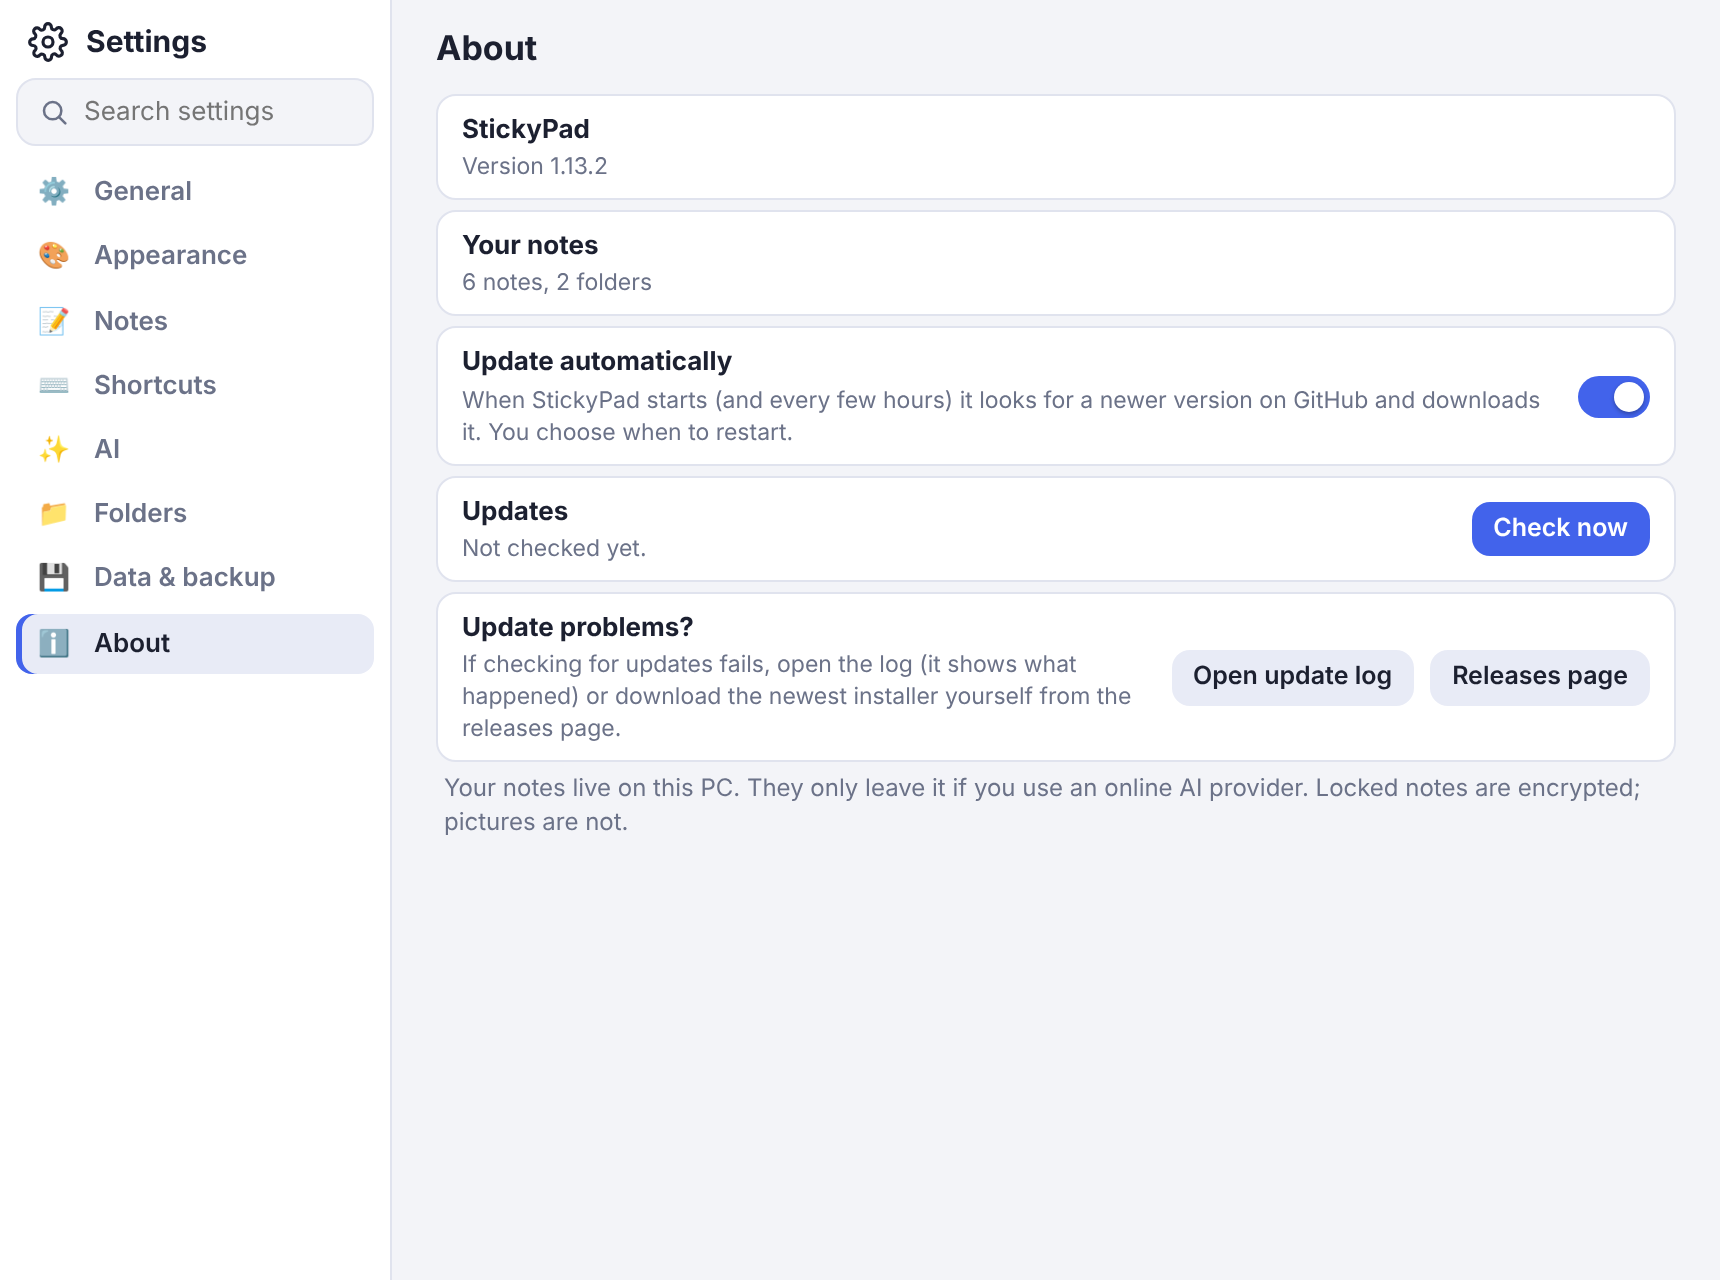
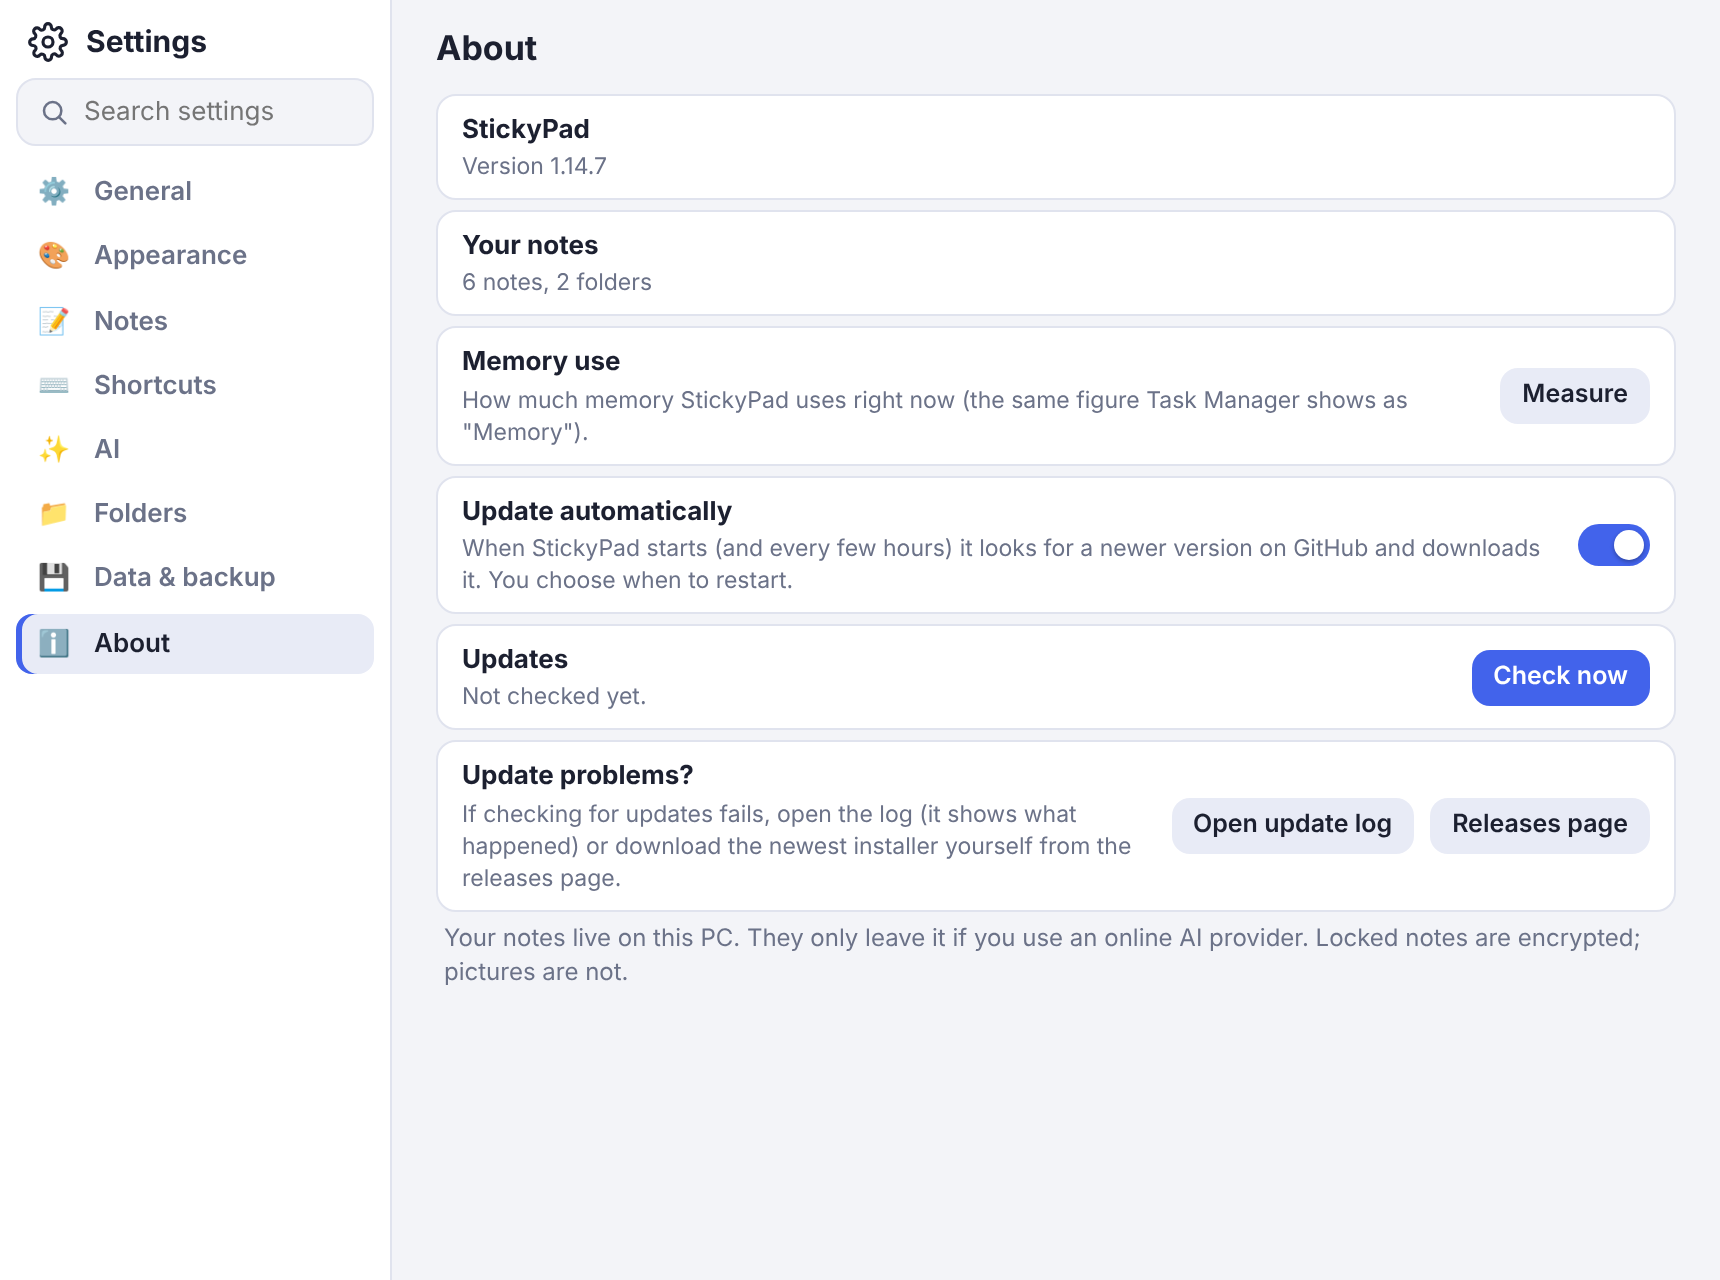
Docs: update README and screenshots for the docked panel and 1.14 features; tidy date bar text, AI button grid, shortcuts list
Claude-Session: https://claude.ai/code/session_01QuaePSCNKfBKv36b3rMdtf

diff --git a/settings.html b/settings.html
@@ -61,7 +61,8 @@
     <div class="row"><div class="lbl"><b>Inside a note</b></div></div>
     <div id="keysNote" class="keylist"></div>
     <p id="keysMsg" class="hint" hidden></p>
-    <div class="row"><div class="lbl"><b>Always the same</b><span>These are needed for editing and cannot be changed.</span></div><div class="ctl keys"><span class="kv"><kbd>Ctrl</kbd><kbd>Z</kbd> Undo</span><span class="kv"><kbd>Ctrl</kbd><kbd>Y</kbd> Redo</span><span class="kv"><kbd>Ctrl</kbd><kbd>Click</kbd> Open a link</span><span class="kv"><kbd>Esc</kbd> Close a panel</span><span class="kv"><kbd>Enter</kbd> Next checklist item</span></div></div>
+    <div class="row"><div class="lbl"><b>Always the same</b><span>These are needed for editing and cannot be changed.</span></div></div>
+    <div class="keysline"><span class="kv"><kbd>Ctrl</kbd><kbd>Z</kbd> Undo</span><span class="kv"><kbd>Ctrl</kbd><kbd>Y</kbd> Redo</span><span class="kv"><kbd>Ctrl</kbd><kbd>Click</kbd> Open a link</span><span class="kv"><kbd>Esc</kbd> Close a panel</span><span class="kv"><kbd>Enter</kbd> Next checklist item</span></div>
     <div class="row"><div class="lbl"><b>Back to the original shortcuts</b></div><div class="ctl"><button id="keysReset" class="btn">Reset all</button></div></div>
   </section>
 

diff --git a/note.js b/note.js
@@ -458,7 +458,7 @@ function dateCheck() {
   dateFound = found;
   const when = new Date(found.at), now = new Date(), sameDay = when.toDateString() === now.toDateString();
   const label = (sameDay ? 'today' : when.toLocaleDateString(undefined, { weekday: 'short', day: 'numeric', month: 'short' })) + ' ' + when.toLocaleTimeString(undefined, { hour: '2-digit', minute: '2-digit' });
-  $('#dateTxt').textContent = `“${found.text.length > 28 ? found.text.slice(0, 27) + '…' : found.text}” → ${label}`;
+  $('#dateTxt').textContent = `“${found.text.length > 18 ? found.text.slice(0, 17) + '…' : found.text}” → ${label}`;
   $('#dateTxt').title = 'Set a reminder for ' + label;
   bar.hidden = false;
 }

diff --git a/settings.css b/settings.css
@@ -41,6 +41,7 @@ h2{margin:0 0 14px;font-size:20px}
 .krow .kbtn.bad{border-color:#d33}
 .krow .krst{border:0;background:none;color:var(--mute);cursor:pointer;font-size:12px;padding:2px 6px}
 .krow .krst[hidden]{display:none}
+.keysline{display:flex;flex-wrap:wrap;padding:0 14px 8px}
 .hint.warn{color:#c24d00}
 .ctl.keys{flex-wrap:wrap;max-width:430px;justify-content:flex-end}
 .kv{display:inline-flex;align-items:center;gap:3px;font-size:12px;color:var(--mute);margin:2px 8px 2px 0}

diff --git a/note.css b/note.css
@@ -242,6 +242,7 @@ body.hasRemind #cfg::after{content:"";position:absolute;width:6px;height:6px;mar
 #cfg{position:relative}
 
 /* links and date suggestion */
+.aibtns #aiTr{grid-column:1/-1}
 ::highlight(links){color:#0b62d6;text-decoration:underline}
 body.dark ::highlight(links){color:#7db3ff;text-decoration:underline}
 #ed.linkhover{cursor:pointer}

diff --git a/tools/screenshots.py b/tools/screenshots.py
@@ -39,13 +39,12 @@ def page(b, name, w=360, h=440, extra=''):
 def goto(pg, f): pg.goto('file://' + ROOT + '/' + f); pg.wait_for_timeout(500)
 def shot(pg, name): pg.screenshot(path=os.path.join(OUT, name + '.png'))
 
-def panel(pg, tab):
-    pg.set_viewport_size({'width': 360, 'height': 900}); pg.wait_for_timeout(150)
-    pg.click('#cfg'); pg.click('[data-tab=%s]' % tab); pg.wait_for_timeout(350)
+def panel(pg, tab, w=660, h=470):
+    pg.set_viewport_size({'width': w, 'height': h}); pg.wait_for_timeout(150)
+    pg.click('#cfg'); pg.click('[data-tab=%s]' % tab); pg.wait_for_timeout(450)
 
 def shot_panel(pg, name):
-    h = pg.evaluate("(()=>{const r=document.getElementById('panel').getBoundingClientRect();return Math.ceil(r.bottom)+4})()")
-    pg.screenshot(path=os.path.join(OUT, name + '.png'), clip={'x': 0, 'y': 0, 'width': 360, 'height': min(h, 900)})
+    pg.screenshot(path=os.path.join(OUT, name + '.png'))
 
 with sync_playwright() as p:
     b = p.chromium.launch()
@@ -64,6 +63,18 @@ with sync_playwright() as p:
     pg = page(b, 'greek'); goto(pg, 'note.html'); panel(pg, 'ai'); shot_panel(pg, 'feature_ai'); pg.close()
     # style tab with themes
     pg = page(b, 'ideas'); goto(pg, 'note.html'); panel(pg, 'style'); shot_panel(pg, 'feature_style'); pg.close()
+    # links underlined + the date bar + the update message
+    NOTES['links'] = dict(title='Weekend', color='#CDEFFF', font='Segoe UI', size=15,
+      blocks=[T('Tickets: https://www.aegeanair.com/booking\nHotel contact: reservations@seaview.gr\nDentist tomorrow at 5pm\nCall Nick'), ])
+    pg = page(b, 'links'); goto(pg, 'note.html'); pg.wait_for_timeout(1000); shot(pg, 'feature_links'); pg.close()
+    pg = page(b, 'links', extra="window.__S.updateNow={state:'ready',version:'1.14.8'}"); goto(pg, 'note.html'); pg.wait_for_timeout(1000); shot(pg, 'feature_update'); pg.close()
+    # shortcuts you can change
+    pg = page(b, None, 860, 700); goto(pg, 'settings.html'); pg.click('[data-cat=shortcuts]'); pg.wait_for_timeout(300)
+    pg.click('[data-key=g_clip]'); pg.keyboard.press('Control+Alt+Shift+V'); pg.wait_for_timeout(300); shot(pg, 'feature_shortcuts'); pg.close()
+    # chat across all notes
+    chatj = "window.api.chatLoad=async()=>({messages:[{role:'user',content:'What did I write about the dentist?'},{role:'assistant',content:'In your note **Weekend** you wrote: *Dentist tomorrow at 5pm*. Nothing else mentions it.'}],noteId:'*',provider:'ollama',model:'gemma3:4b'});window.api.chatNotes=async()=>[{id:'n1',title:'Weekend'},{id:'n2',title:'Groceries'}];"
+    pg = page(b, None, 420, 600, extra=chatj); goto(pg, 'chat.html'); pg.wait_for_timeout(300)
+    pg.evaluate("(()=>{const s=document.createElement('div');s.className='src';s.textContent='Looked at: Weekend · Groceries';const m=document.querySelectorAll('.msg');m[m.length-1].appendChild(s)})()"); shot(pg, 'feature_chat_all'); pg.close()
     # all notes
     allj = '''window.api.allList = async () => ({ emoji: '☀', greeting: 'Good morning', notes: [
       {id:'a',title:'Groceries',text:'For the weekend dinner\\n☑ Tomatoes and basil\\n☐ Olive oil',color:'#FFF2A8',group:'g1',updated:Date.now()-3e5,open:true},
@@ -75,7 +86,7 @@ with sync_playwright() as p:
       groups: [{id:'g1',name:'Home',collapsed:false},{id:'g2',name:'Work',collapsed:false}], trash: [], prefs: {} });'''
     pg = page(b, None, 420, 600, extra=allj); goto(pg, 'all.html'); shot(pg, 'feature_all'); pg.close()
     # settings window
-    setj = "const o=window.api.settingsGet; window.api.settingsGet=async()=>({...(await o()),version:'1.13.2',notesCount:6,groups:[{id:'g1',name:'Home'},{id:'g2',name:'Work'}],autoBackup:true,backupCount:7,lastBackup:Date.now()-3600e3,dataPath:'C:/Users/you/OneDrive/StickyPad',dataCustom:true,autoUpdate:true,shortcuts:true,snap:true});"
+    setj = "const o=window.api.settingsGet; window.api.settingsGet=async()=>({...(await o()),version:'1.14.7',notesCount:6,groups:[{id:'g1',name:'Home'},{id:'g2',name:'Work'}],autoBackup:true,backupCount:7,lastBackup:Date.now()-3600e3,dataPath:'C:/Users/you/OneDrive/StickyPad',dataCustom:true,autoUpdate:true,shortcuts:true,snap:true});"
     pg = page(b, None, 860, 640, extra=setj); goto(pg, 'settings.html'); pg.click('[data-cat=data]'); pg.wait_for_timeout(300); shot(pg, 'feature_settings_data'); pg.click('[data-cat=about]'); pg.wait_for_timeout(300); shot(pg, 'feature_settings_about'); pg.close()
     b.close()
 

diff --git a/README.md b/README.md
@@ -19,17 +19,24 @@ Each note is its own small window on your desktop. Everything is stored on your 
 ## Everything it can do
 
 ### Notes
-<img align="right" width="300" src="docs/images/note_groceries.png" alt="A yellow checklist note">
+<img align="right" width="300" src="docs/images/feature_links.png" alt="A note with underlined links and a date suggestion bar">
 
 - **Colours, 9 themes, any font and size.** Pick a colour per note, or apply a theme to one note or all of them.
 - **Checklists** (Ctrl+Shift+C): tick items off, *Remove ticked* clears the finished ones, *Make plain text* turns them back into lines.
 - **Pictures**: paste or drop them straight into the text.
-- **Links**: web and e-mail addresses are underlined; **Ctrl+click** opens them, and a right-click offers *Open link* and *Copy link*.
+- **Links**: web and e-mail addresses are underlined; **Ctrl+click** opens them, and a right-click offers *Open link* and *Copy link*. The note on the right shows links, a date suggestion and the update bar.
 - **Pin** a note on top of other windows, **roll it up** to just its title, or **close** it and reopen it from the tray.
 - **Folders** to group notes; **snap** to screen edges and to other notes; **tidy up** arranges the open notes in rows.
 - **Trash** keeps deleted notes for 30 days, so nothing is lost by accident.
 
 The icons in the header, from the left: add a checklist item, pin, all notes, settings, roll up, close.
+
+### Settings panel on the right
+<img align="right" width="300" src="docs/images/feature_ai.png" alt="A note with the settings panel docked on its right side">
+
+The gear opens a panel **beside your text instead of on top of it**, so you can keep reading the note while you change its colour, set a reminder or run the AI. A narrow note grows to make room while the panel is open and returns to its size when you close it. The tabs are **Style**, **Note**, **App** and **AI**; *All settings…* opens the full settings window.
+
+<br clear="right">
 
 ### Find in a note (Ctrl+F)
 <img align="right" width="300" src="docs/images/feature_find_greek.png" alt="Searching a Greek note: both matches are highlighted">
@@ -66,7 +73,7 @@ Ctrl+Alt+A opens the **All notes** window: every note as a card, grouped by fold
 Give a note a password (4+ characters) and its text is stored **encrypted (AES-256-GCM)**. It shows a lock screen until you enter the password. A forgotten password cannot be recovered. Pictures stay on disk unencrypted, but are hidden in the app.
 
 ### AI helper (off by default)
-<img align="right" width="300" src="docs/images/feature_ai.png" alt="The AI tab with Summarize, Fix grammar, To checklist, Translate and Edit live">
+<img align="right" width="300" src="docs/images/feature_chat_all.png" alt="The AI chat answering a question from all notes, with a Looked at line">
 
 Open the gear, tab **AI**:
 
@@ -98,7 +105,9 @@ StickyPad remembers which screen each note is on. Unplug a monitor and its notes
 <img src="docs/images/feature_settings_data.png" width="560" alt="Settings window, Data and backup page">
 
 ### Updates
-StickyPad checks this repository's Releases when it starts and every few hours. A newer version downloads in the background and a small bar at the bottom of your notes offers **Restart to update** (or ✕ for later); if you ignore it, it installs when you quit. *Settings > About* has a switch, a **Check now** button, and, if anything goes wrong, **Open update log** and **Releases page**.
+StickyPad checks this repository's Releases when it starts and every few hours. A newer version downloads in the background and a small bar at the bottom of your notes offers **Restart to update** (or ✕ for later; no Windows dialog); if you ignore it, it installs when you quit. *Settings > About* has a switch, a **Check now** button, and, if anything goes wrong, **Open update log** and **Releases page**.
+
+<img src="docs/images/feature_update.png" width="300" alt="The Restart to update bar at the bottom of a note">
 
 ### Themes and look
 <img src="docs/images/feature_style.png" width="300" alt="The Style tab with colours, font, size and themes">
@@ -124,7 +133,10 @@ Download **StickyPad-Setup-x.y.z.exe** from the [Releases](../../releases) page 
 | Ctrl+Shift+T | copy the note as plain text |
 | Ctrl+, | all settings |
 
-Every shortcut below can be changed in **Settings > Shortcuts**.
+Every shortcut below can be changed in **Settings > Shortcuts**: press *Change*, then the keys you want. Clashes are flagged and *Reset* restores the default.
+
+<img src="docs/images/feature_shortcuts.png" width="420" alt="Settings, Shortcuts page with a recorded custom key">
+
 
 | Anywhere in Windows (Settings > Shortcuts can turn these off) | |
 |---|---|
